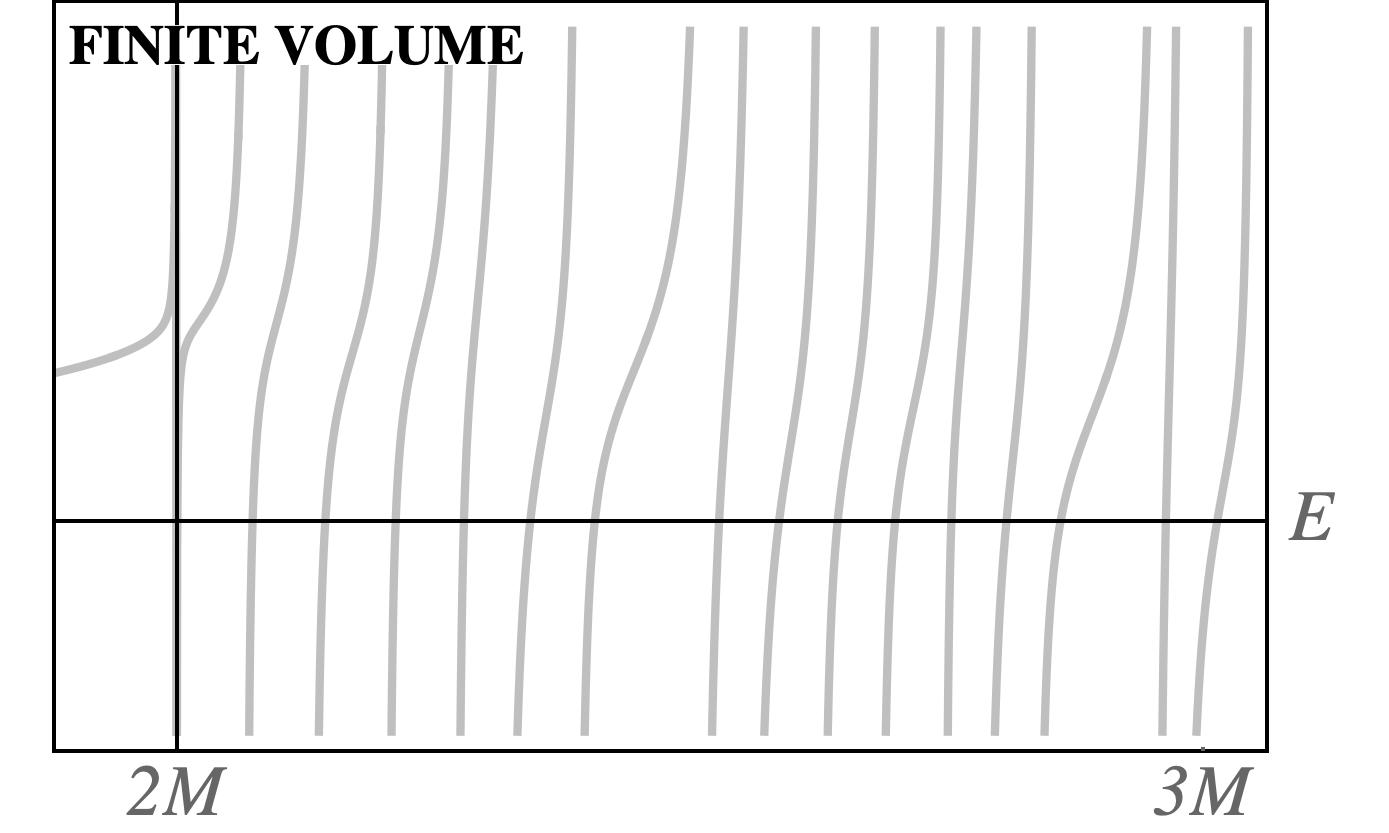
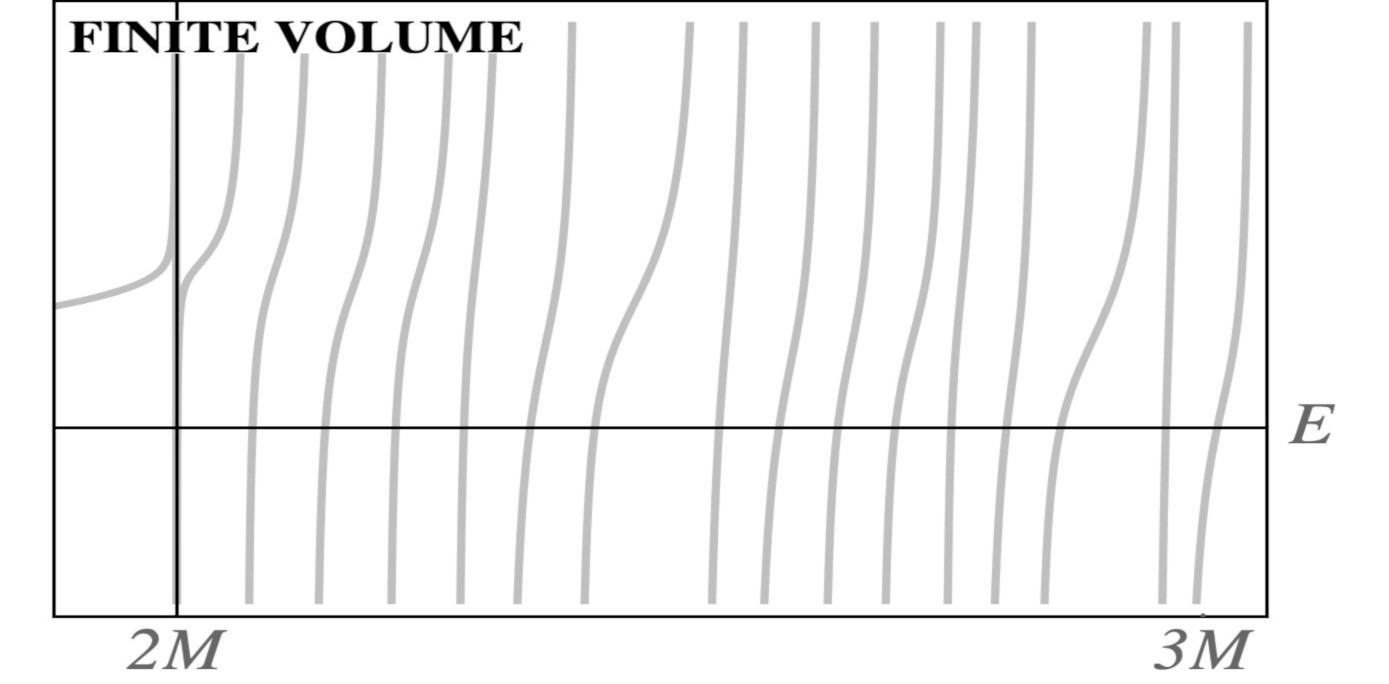
-slider things

diff --git a/stylesheets/w3.css b/stylesheets/w3.css
@@ -29,7 +29,7 @@ html,body{font-family:Verdana,sans-serif;font-size:15px;line-height:1.5}html{ove
 h1{font-size:36px}h2{font-size:30px}h3{font-size:24px}h4{font-size:20px}h5{font-size:18px}h6{font-size:16px}.w3-serif{font-family:serif}
 h1,h2,h3,h4,h5,h6{font-family:"Segoe UI",Arial,sans-serif;font-weight:400;margin:10px 0}.w3-wide{letter-spacing:4px}
 hr{border:0;border-top:1px solid #eee;margin:20px 0}
-.w3-image{max-width:100%;height:auto}img{vertical-align:middle}a{color:inherit}
+.w3-image{max-width:100%;height:auto}img{vertical-align:middle}a{color:blue}
 .w3-table,.w3-table-all{border-collapse:collapse;border-spacing:0;width:100%;display:table}.w3-table-all{border:1px solid #ccc}
 .w3-bordered tr,.w3-table-all tr{border-bottom:1px solid #ddd}.w3-striped tbody tr:nth-child(even){background-color:#f1f1f1}
 .w3-table-all tr:nth-child(odd){background-color:#fff}.w3-table-all tr:nth-child(even){background-color:#f1f1f1}
@@ -38,7 +38,7 @@ hr{border:0;border-top:1px solid #eee;margin:20px 0}
 .w3-table th:first-child,.w3-table td:first-child,.w3-table-all th:first-child,.w3-table-all td:first-child{padding-left:16px}
 .w3-btn,.w3-button{border:none;display:inline-block;padding:8px 16px;vertical-align:middle;overflow:hidden;text-decoration:none;color:inherit;background-color:inherit;text-align:center;cursor:pointer;white-space:nowrap}
 .w3-btn:hover{box-shadow:0 8px 16px 0 rgba(0,0,0,0.2),0 6px 20px 0 rgba(0,0,0,0.19)}
-.w3-btn,.w3-button{-webkit-touch-callout:none;-webkit-user-select:none;-khtml-user-select:none;-moz-user-select:none;-ms-user-select:none;user-select:none}   
+.w3-btn,.w3-button{-webkit-touch-callout:none;-webkit-user-select:none;-khtml-user-select:none;-moz-user-select:none;-ms-user-select:none;user-select:none}
 .w3-disabled,.w3-btn:disabled,.w3-button:disabled{cursor:not-allowed;opacity:0.3}.w3-disabled *,:disabled *{pointer-events:none}
 .w3-btn.w3-disabled:hover,.w3-btn:disabled:hover{box-shadow:none}
 .w3-badge,.w3-tag{background-color:#000;color:#fff;display:inline-block;padding-left:8px;padding-right:8px;text-align:center}.w3-badge{border-radius:50%}
@@ -84,7 +84,7 @@ hr{border:0;border-top:1px solid #eee;margin:20px 0}
 .w3-cell-top{vertical-align:top}.w3-cell-middle{vertical-align:middle}.w3-cell-bottom{vertical-align:bottom}
 .w3-hide{display:none!important}.w3-show-block,.w3-show{display:block!important}.w3-show-inline-block{display:inline-block!important}
 @media (max-width:600px){.w3-modal-content{margin:0 10px;width:auto!important}.w3-modal{padding-top:30px}
-.w3-dropdown-hover.w3-mobile .w3-dropdown-content,.w3-dropdown-click.w3-mobile .w3-dropdown-content{position:relative}	
+.w3-dropdown-hover.w3-mobile .w3-dropdown-content,.w3-dropdown-click.w3-mobile .w3-dropdown-content{position:relative}
 .w3-hide-small{display:none!important}.w3-mobile{display:block;width:100%!important}.w3-bar-item.w3-mobile,.w3-dropdown-hover.w3-mobile,.w3-dropdown-click.w3-mobile{text-align:center}
 .w3-dropdown-hover.w3-mobile,.w3-dropdown-hover.w3-mobile .w3-btn,.w3-dropdown-hover.w3-mobile .w3-button,.w3-dropdown-click.w3-mobile,.w3-dropdown-click.w3-mobile .w3-btn,.w3-dropdown-click.w3-mobile .w3-button{width:100%}}
 @media (max-width:768px){.w3-modal-content{width:500px}.w3-modal{padding-top:50px}}

diff --git a/index.html b/index.html
@@ -22,6 +22,8 @@
 <style>
   body {font-family: "Lato", sans-serif; background-color: white;}
 </style>
+
+
 <script>
 function initComparisons() {
   var x, i;
@@ -75,7 +77,7 @@ function initComparisons() {
       /*get the cursor's x position:*/
       pos = getCursorPos(e)
       /*prevent the slider from being positioned outside the image:*/
-      if (pos < 0) pos = 0;
+      if (pos < 75) pos = 75;
       if (pos > w) pos = w;
       /*execute a function that will resize the overlay image according to the cursor:*/
       slide(pos);
@@ -237,7 +239,8 @@ of the QCD Hamiltonian -- see figure below.
     <figure style="
       float: center;
       max-width: 800px;
-      width: 90%;
+      margin-left: 75px;
+      width: 99%;
       text-align: center;
       font-style: italic;
       font-size: smaller;
@@ -248,10 +251,12 @@ of the QCD Hamiltonian -- see figure below.
 
       <div class="img-comp-container">
         <div class="img-comp-img">
-        <img src="content/INFVOL.jpg" class="chart-img">
+        <img      style="margin-left: 75px;",
+                  src="content/INFVOL.jpg" class="chart-img">
         </div>
-        <div class="img-comp-img img-comp-overlay">
-        <img src="content/FINVOL.jpg" class="chart-img">
+        <div      class="img-comp-img img-comp-overlay">
+        <img      style="margin-left: 75px;",
+                  src="content/FINVOL.jpg" class="chart-img">
         </div>
       </div>
 
@@ -261,7 +266,7 @@ of the QCD Hamiltonian -- see figure below.
       </script>
 
       <figcaption>
-        Two-pion scattering amplitude <b>T</b> in finite and infinite volume. <u>In finite volume:</u> It is a real-valued and singular function of interaction energy. Position of the poles corresponds to the energy eigenvalues to be measured in a corresponding lattice setup. <u>In infinte volume:</u> It is an analytic complex valued
+        Two scalar particle scattering amplitude <b>T</b> in finite and infinite volume. <u>In finite volume:</u> It is a real-valued and singular function of interaction energy. Position of the poles corresponds to the energy eigenvalues to be measured in a corresponding lattice setup. <u>In infinte volume:</u> It is an analytic complex valued
         function of energy. Its squared value is proportional to experimentally accessible quantities. Extrapolating to complex
         energies universal properties of resonances can be extracted. --
         <b>Pull the blue bar to switch between both "worlds". X-axis

diff --git a/stylesheets/main.css b/stylesheets/main.css
@@ -11,13 +11,13 @@
 
 .img-comp-container {
   position: relative;
-  height: 240px; /*should be the same height as the images*/
+  height: 280px; /*should be the same height as the images*/
 }
 
 .img-comp-img {
   position: absolute;
   width: auto;
-  height: 240px;
+  height: 280px;
   overflow: hidden;
 }
 
@@ -39,12 +39,12 @@
 }
 
 .chart-img {
-  width: 330px;
+  width: 500px;
 }
 
 @media (min-width:601px){
   .chart-img {
-    width: 400px;
+    width: 500px;
   }
 }
 
@@ -71,17 +71,23 @@
   bottom: auto;}
 /* %%%%%%%%%%%%%%%%%%%%%% end header %%%%%%%%%%%%%%%%%%%%%% */
 
+a.blau, a.blau:visited {
+      color: blue;
+      background-color: transparent;
+      text-decoration: none;
+ }
+
 
 a.blau:link {
     color: blue;
     background-color: transparent;
     text-decoration: none;
 }
-a.blau:visited {
+/* a.blau:visited {
     color: blue;
     background-color: transparent;
     text-decoration: none;
-}
+} */
 
 /* Bottom right text */
 .text-block {
